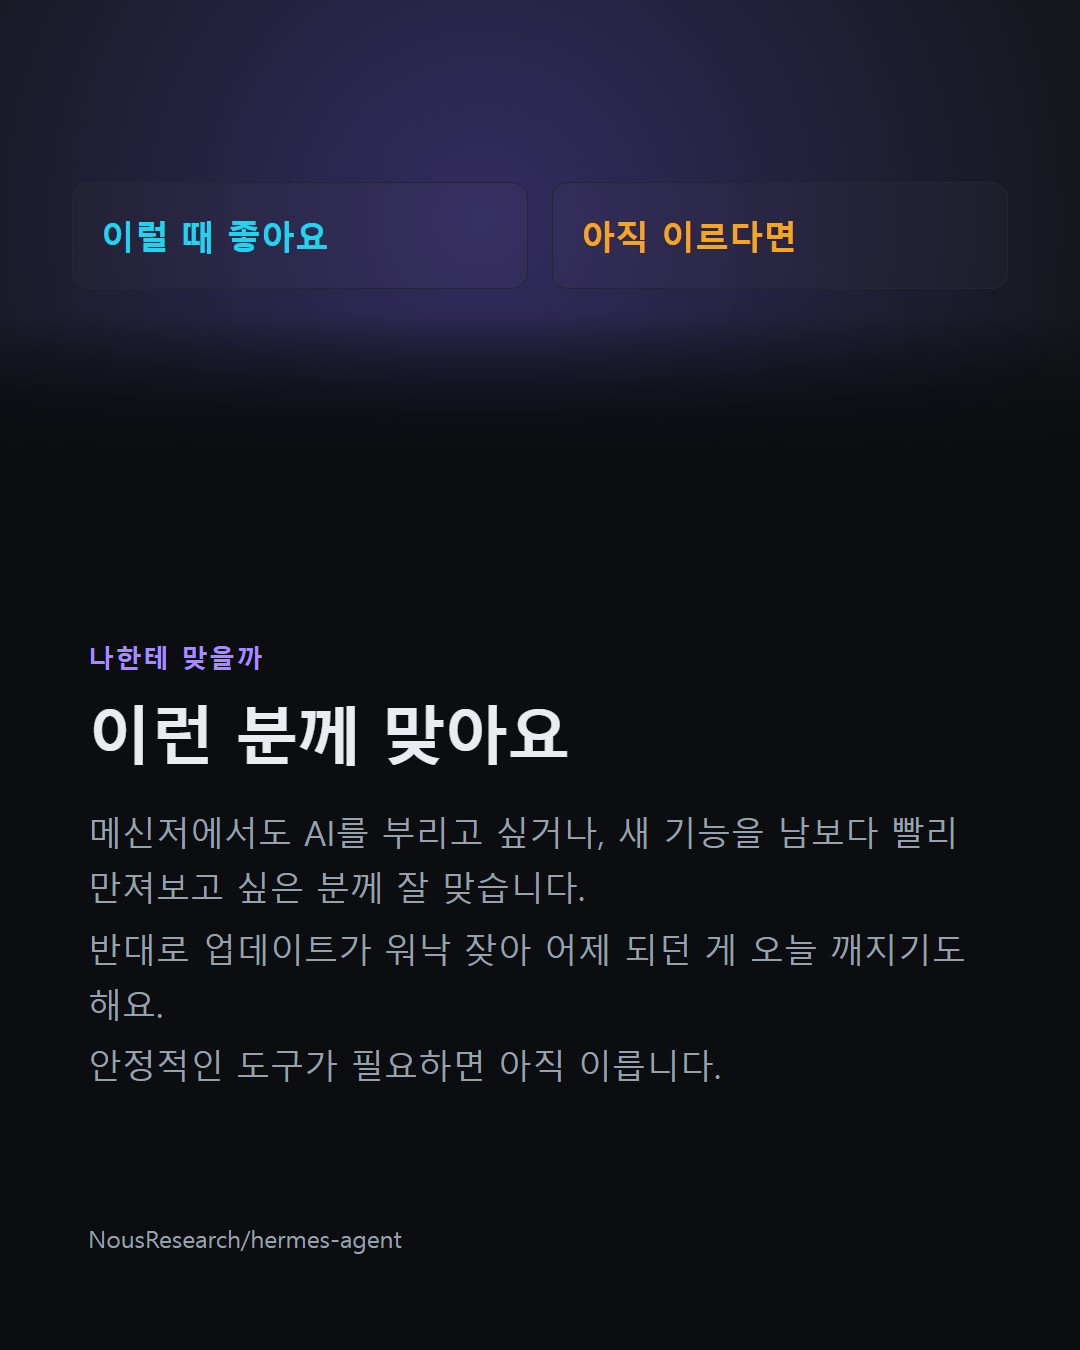
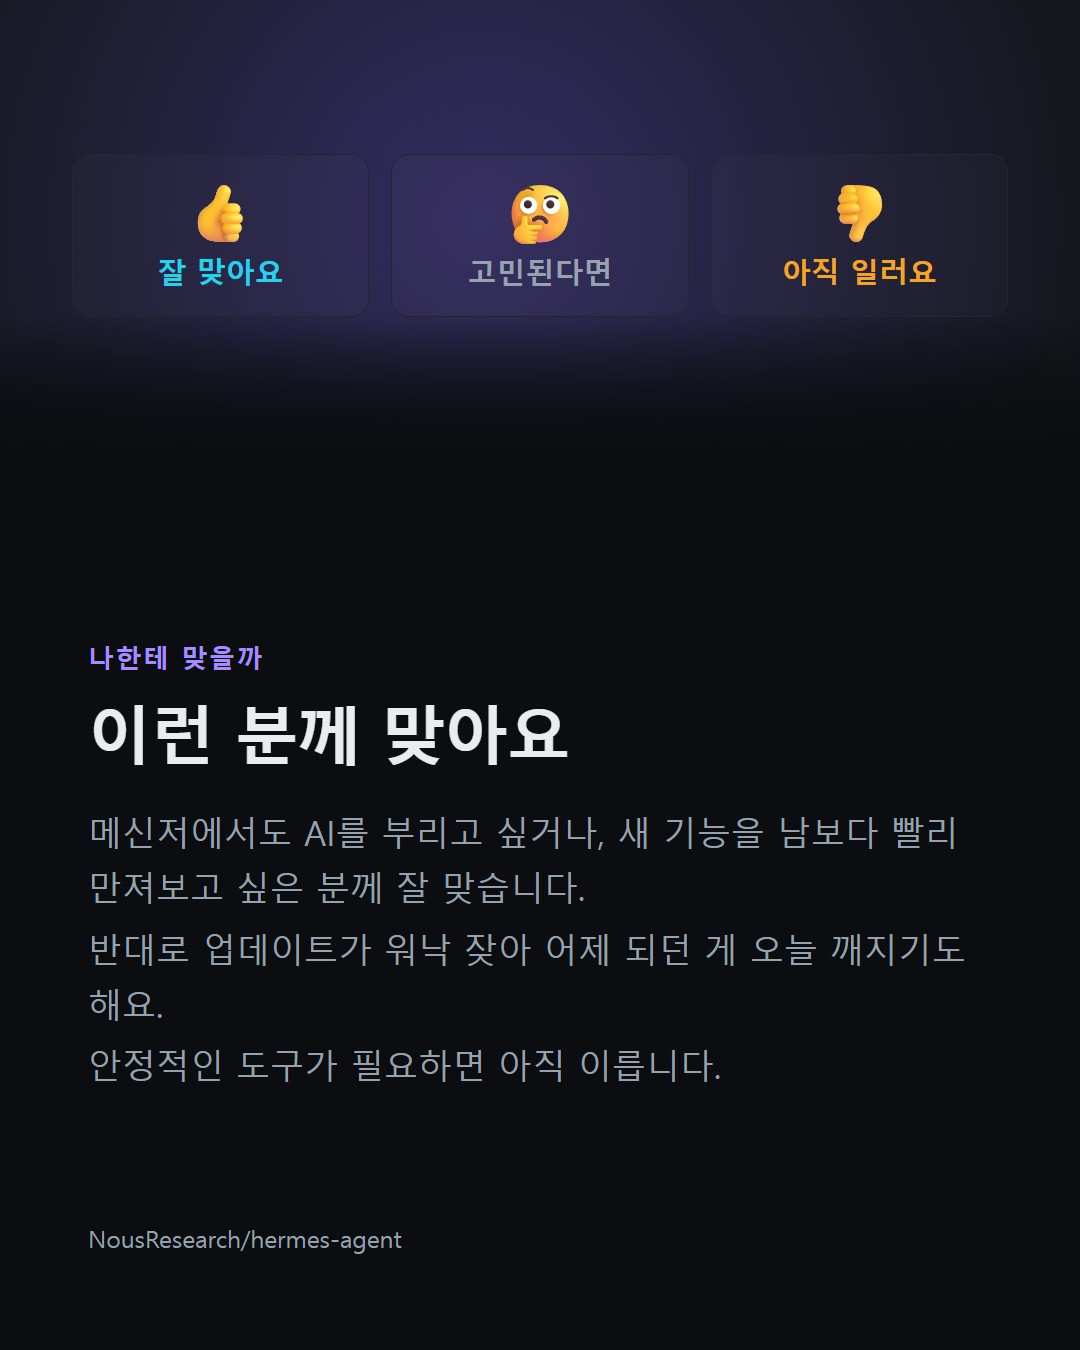
style(imagery): 스타 단위 표기 변경, fit 카드를 이모지 세 단계로
- why_now: "별 234,523개 중" → "stars / 234,523개 중"
- fit: 두 칸 머리글을 👍 잘 맞아요 / 🤔 고민된다면 / 👎 아직 일러요 로.
  두 갈래보다 세 단계가 실제 판단에 가깝다 — 대부분의 도구는 "맞다/아니다"
  보다 "상황에 따라" 쪽이다.

이모지는 시스템 이모지 폰트에 의존한다. 카드 배지의 별(⭐)이 이미 같은 경로를
쓰고 있어 새 의존성은 아니다.

Changed region(s): [[0.4278, 0.1244, 0.8861, 0.2178], [0.0917, 0.1244, 0.3056, 0.2178]]

diff --git a/agent/imagery.py b/agent/imagery.py
@@ -8,7 +8,7 @@
 | what_is_it | GitHub OG 이미지 | `opengraph.githubassets.com` |
 
 | quickstart | 터미널 창 | 카드의 실제 설치 명령 |
-| fit | 두 칸 머리글 | 고정 문구 |
+| fit | 이모지 세 단계 (👍 🤔 👎) | 고정 문구 |
 | feature | 큰 번호 01/02/03 | 카드 순서 |
 | problem | 큰 물음표 | — |
 | cover, outro | 없음 | 간결해야 하는 카드 |

diff --git a/SPEC.md b/SPEC.md
@@ -619,11 +619,12 @@ python -m agent design-sync
 | quickstart | 터미널 창 | 카드의 실제 설치 명령 |
 | feature | 큰 번호 01/02/03 | 카드 순서 |
 | problem | 큰 물음표 | — |
-| fit | 두 칸 머리글 | 고정 문구 |
+| fit | 이모지 세 단계 (👍 잘 맞아요 / 🤔 고민된다면 / 👎 아직 일러요) | 고정 문구 |
 | cover, outro | 없음 | 간결해야 하는 카드 |
 
 - **이미지 생성 모델을 쓰지 않는다.** 스타 증가량·설치 명령 같은 실제 데이터를 갖고 있고, 그걸 그리는 편이 생성 일러스트보다 정확하고 덜 상투적이다. 렌더링은 카드와 같은 Playwright 파이프라인을 재사용하므로 디자인 토큰이 자동으로 공유된다.
 - **그래픽에 카드 제목을 넣지 않는다.** 넣어봤더니 같은 문장이 위아래로 두 번 나왔다. 그림은 리듬만 주고 내용은 카드가 말한다. 터미널 그래픽이 있으면 카드 본문의 코드 블록도 숨긴다 — 같은 명령이 두 번 보이기 때문이다.
+- 이모지는 렌더러의 시스템 이모지 폰트에 의존한다. 로컬(Windows)에서는 Segoe UI Emoji 로 렌더되며, 카드 배지의 ⭐ 도 같은 경로를 쓴다. CI 로 옮길 일이 생기면 이모지 폰트를 함께 설치해야 두부가 되지 않는다.
 - **없는 데이터를 그럴듯한 모양으로 채우지 않는다.** 스타 증가량을 모르면 수치 카드를 만들지 않고, 스냅샷이 3일치 미만이면 막대를 아예 그리지 않는다. 그건 그래프가 아니라 장식이다.
 - 코드 스니펫은 설치 커맨드 수준의 짧은 인용으로 제한하고, 카드 10에 라이선스를 표기한다.
 - **페이지 인디케이터는 쓰지 않는다.** 인스타그램이 캐러셀 위치를 자체 UI 로 이미 보여주므로 중복이고, 카드 하단 공간만 잡아먹는다.
